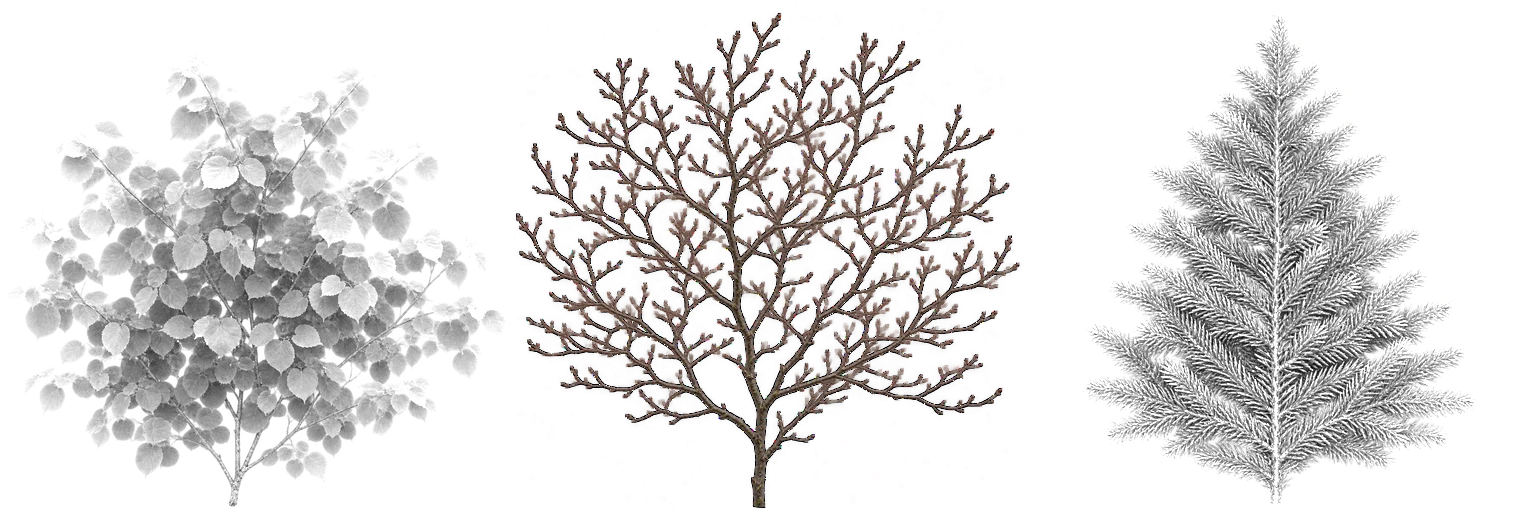
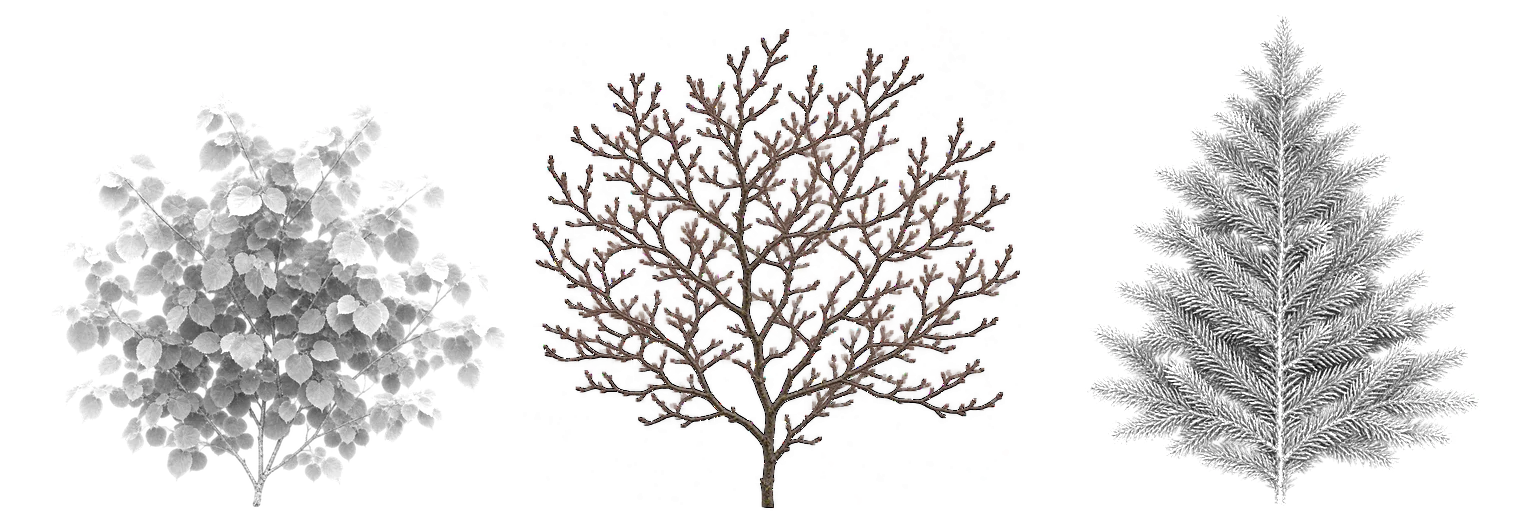
Keep twig sprays attached to their wooden branches
Fit each street-level spray around its wooden attachment instead of reshaping its corners independently. Use the branch's wind phase at the stem and let only the free end flutter. Pack the anchor with position data to retain the existing vertex-buffer and draw counts.

Centre leaf, twig and needle atlas images by their stems rather than their asymmetric silhouettes. Add geometry attachment checks across wood detail levels and a packed-atlas stem regression test.

Verified TypeScript, street-quality checks, atlas regression and WebGPU screenshots at Na Příkopě on Ultra/Lowest, in summer and overhead. Full build and performance benchmarks were not run; fallen-leaf upgrades remain deferred.

diff --git a/src/map/streetTree.ts b/src/map/streetTree.ts
@@ -30,9 +30,11 @@ export const BOUGH = -3;
 export function streetTreeGeometry(seed: number, boughs: number, sprays: number, woodDetail = 1) {
   const r = rng(seed);
   const pos: number[] = [], nor: number[] = [], uv: number[] = [], part: number[] = [], idx: number[] = [];
-  const v = (p: THREE.Vector3, n: THREE.Vector3, s: number, t: number, a: number, b: number, c: number, d: number) => {
-    pos.push(p.x, p.y, p.z); nor.push(n.x, n.y, n.z); uv.push(s, t); part.push(a, b, c, d);
-    return pos.length / 3 - 1;
+  const v = (p: THREE.Vector3, n: THREE.Vector3, s: number, t: number, a: number, b: number, c: number, d: number, root = p) => {
+    // Position and attachment share a buffer: adding the anchor must not add another
+    // vertex buffer to the instanced tree material on mobile GPUs.
+    pos.push(p.x, p.y, p.z, root.x, root.y, root.z); nor.push(n.x, n.y, n.z); uv.push(s, t); part.push(a, b, c, d);
+    return part.length / 4 - 1;
   };
   const up = new THREE.Vector3(0, 1, 0), side = new THREE.Vector3(1, 0, 0);
 
@@ -136,17 +138,20 @@ export function streetTreeGeometry(seed: number, boughs: number, sprays: number,
     const height = (centre.y - CROWN_FOOT) / (0.6 - CROWN_FOOT), girth = 0.4 + 0.5 * Math.sin(Math.PI * (0.1 + 0.8 * Math.min(1, Math.max(0, height))));
     const deep = Math.min(1, Math.max(Math.hypot(centre.x, centre.z) / girth, (centre.y - 0.1) / 0.45)), own = r(), flip = r() < 0.5;
     round.set(centre.x, (centre.y + 0.35) * 0.55, centre.z).normalize();
-    const first = pos.length / 3;
+    const first = part.length / 4;
     for (const [cx, cy] of [[-1, 0], [1, 0], [1, 1], [-1, 1]]) {
       corner.copy(end.at).addScaledVector(grown, (cy - 0.08) * size).addScaledVector(across, cx * size * 0.5);
       n.copy(round).multiplyScalar(1.4).addScaledVector(face, face.dot(round) < 0 ? -0.5 : 0.5).addScaledVector(across, cx * 0.35).addScaledVector(grown, (cy - 0.5) * 0.35).normalize();
-      v(corner, n, (cx > 0) !== flip ? 1 : 0, cy, 0, -1, own, deep);
+      v(corner, n, (cx > 0) !== flip ? 1 : 0, cy, 0, -1, own, deep, end.at);
     }
     idx.push(first, first + 1, first + 2, first, first + 2, first + 3);
   }
 
   const geom = new THREE.BufferGeometry();
-  geom.setAttribute('position', new THREE.Float32BufferAttribute(pos, 3));
+  const points = new THREE.InterleavedBuffer(new Float32Array(pos), 6);
+  (points as THREE.InterleavedBuffer & { shared?: boolean }).shared = true;
+  geom.setAttribute('position', new THREE.InterleavedBufferAttribute(points, 3, 0));
+  geom.setAttribute('branchAnchor', new THREE.InterleavedBufferAttribute(points, 3, 3));
   geom.setAttribute('normal', new THREE.Float32BufferAttribute(nor, 3));
   geom.setAttribute('uv', new THREE.Float32BufferAttribute(uv, 2));
   geom.setAttribute('part', new THREE.Float32BufferAttribute(part, 4));
@@ -219,6 +224,7 @@ export function canopyGeometry(seed: number, rings: number[], skirt: number[] = 
   });
   const geom = new THREE.BufferGeometry();
   geom.setAttribute('position', new THREE.Float32BufferAttribute(pos, 3));
+  geom.setAttribute('branchAnchor', geom.getAttribute('position'));
   geom.setAttribute('normal', new THREE.Float32BufferAttribute(nor, 3));
   geom.setAttribute('uv', new THREE.Float32BufferAttribute(uv, 2));
   geom.setAttribute('part', new THREE.Float32BufferAttribute(part, 4));
@@ -276,6 +282,7 @@ export function coniferGeometry(seed: number) {
   }
   const geom = new THREE.BufferGeometry();
   geom.setAttribute('position', new THREE.Float32BufferAttribute(pos, 3));
+  geom.setAttribute('branchAnchor', geom.getAttribute('position'));
   geom.setAttribute('normal', new THREE.Float32BufferAttribute(nor, 3));
   geom.setAttribute('uv', new THREE.Float32BufferAttribute(uv, 2));
   geom.setAttribute('part', new THREE.Float32BufferAttribute(part, 4));

diff --git a/src/webgpu/streetTrees.ts b/src/webgpu/streetTrees.ts
@@ -20,6 +20,7 @@ import { type N, follow, followVec, uWet, uSnow } from './common.ts';
 
 const uBare = follow(BARE), uSeason = followVec(SEASON), uSway: N = followVec(TREE_SWAY);
 const part: N = attribute('part', 'vec4'), yearly: N = attribute('yearly', 'float');
+const branchAnchor: N = attribute('branchAnchor', 'vec3');
 
 // The pictures arrive after the first frames: plain stand-ins keep the bindings' types.
 const blank = (rgba: number[]) => {
@@ -77,18 +78,27 @@ const fitted = (y: N): N => {
   return select(y.lessThan(TREE_FROM), float(TREE_FROM).sub(float(TREE_FROM).sub(y).mul(k)), y);
 };
 const shaped = (): N => {
-  const p: N = positionGeometry.mul(folded()), wide: N = mix(1, outlineAt(positionGeometry), smoothstep(0.15, 0.5, length(positionGeometry.xz)));
+  const p: N = positionGeometry.mul(folded());
   const tree: N = part.y.greaterThan(-1.5); // (the street tree itself: not a spray laid over a crown, a shrub's or a conifer's bough)
-  const y: N = select(part.y.greaterThanEqual(0), mix(stem.negate().sub(STEM.under), fitted(float(CROWN_FOOT)), part.y), select(tree, fitted(p.y), p.y));
+  // Fit a whole spray at its attachment, rather than fitting its four corners
+  // separately: their interpolated stem otherwise drifts off the wooden branch.
+  const spray: N = tree.and(part.x.lessThan(0.5));
+  const root: N = select(spray, branchAnchor, p);
+  const wide: N = mix(1, outlineAt(root), smoothstep(0.15, 0.5, length(root.xz)));
+  const rise: N = select(root.y.lessThan(TREE_FROM), float(TREE_FROM).sub(crownBase(stem)).div(TREE_FROM - CROWN_FOOT), 1);
+  const crownY: N = fitted(root.y).add(p.y.sub(root.y).mul(rise));
+  const y: N = select(part.y.greaterThanEqual(0), mix(stem.negate().sub(STEM.under), fitted(float(CROWN_FOOT)), part.y), select(tree, crownY, p.y));
   // The wind: boughs and sprays lean with it and swing back, more the further out from the
   // trunk they are, in gusts that cross the street from tree to tree; each spray of leaves
   // also flutters on its own. (The trunk stands still: it is at the middle.)
   const at: N = instanceMatrix().mul(vec4(0, 0, 0, 1)).xz;
   const gust: N = uSway.x.mul(0.9).sub(dot(at, uSway.zw).mul(0.11));
-  const swing: N = sin(gust).add(sin(gust.mul(2.3).add(part.z.mul(6.28))).mul(0.5)).add(0.4);
-  const reach: N = min(length(p.xz), 6).mul(tree.select(1, 0.5));
+  // The attachment sways with the wood; only the free end flutters independently.
+  const swing: N = sin(gust).add(sin(gust.mul(2.3)).mul(0.5)).add(0.4);
+  const reach: N = min(length(root.xz), 6).mul(tree.select(1, 0.5));
   const lean: N = swing.mul(reach).mul(uSway.y).mul(0.035);
-  const flutter: N = sin(uSway.x.mul(3.7).add(part.z.mul(53))).mul(uSway.y).mul(0.025).mul(float(1).sub(part.x)).mul(step(0.3, reach));
+  const free: N = uv().y.sub(select(spray, 0.08, 0));
+  const flutter: N = sin(uSway.x.mul(3.7).add(part.z.mul(53))).mul(uSway.y).mul(0.025).mul(float(1).sub(part.x)).mul(step(0.3, reach)).mul(free);
   return vec3(p.x.mul(wide).add(uSway.z.mul(lean)), y.add(flutter), p.z.mul(wide).add(uSway.w.mul(lean)));
 };
 

diff --git a/pipeline/test_street_tree_atlas.py b/pipeline/test_street_tree_atlas.py
@@ -1,0 +1,21 @@
+"""The packed atlas must place every visible stem on the geometry's centre line."""
+from pathlib import Path
+import unittest
+
+from PIL import Image
+
+
+class StreetTreeAtlasTests(unittest.TestCase):
+    def test_stems_are_centred(self):
+        path = Path(__file__).resolve().parents[1] / "public" / "street-trees.webp"
+        with Image.open(path) as atlas:
+            self.assertEqual(atlas.size, (1536, 512))
+            alpha = atlas.getchannel("A")
+            for column, name in enumerate(("leaf", "twig", "needle")):
+                with self.subTest(name=name):
+                    card = alpha.crop((column * 512, 0, (column + 1) * 512, 512))
+                    bottom = card.point(lambda a: 255 if a > 140 else 0).getbbox()[3]
+                    xs = [x for y in range(bottom - 3, bottom)
+                          for x in range(512) if card.getpixel((x, y)) > 140]
+                    self.assertLess(abs(sum(xs) / len(xs) - 256), 3,
+                                    "a stem beside the centre floats off its wooden branch")

diff --git a/assets/trees/build.py b/assets/trees/build.py
@@ -39,9 +39,13 @@ def card(name: str, grey: bool, thicken: float) -> np.ndarray:
     im = Image.open(HERE / f"{name}.webp").convert("RGBA")
     # Trimmed to what is drawn, with a margin, and squared up from the bottom (the stem
     # stays at the middle of the lower edge).
+    mask = np.asarray(im.getchannel("A")) > 24
     box = im.getchannel("A").point(lambda v: 255 if v > 24 else 0).getbbox()
-    side = max(box[2] - box[0], box[3] - box[1]) + 24
-    cx = (box[0] + box[2]) // 2
+    # The fan can be asymmetric. Centre its stem, not its bounding box, or the
+    # visible twig starts beside the card's attachment even when the quad is pinned.
+    _, stem_x = np.nonzero(mask[max(box[1], box[3] - 8):box[3]])
+    cx = round(float(stem_x.mean()))
+    side = max(2 * max(cx - box[0], box[2] - cx), box[3] - box[1]) + 24
     square = Image.new("RGBA", (side, side), (0, 0, 0, 0))
     square.alpha_composite(im, (side // 2 - cx, side - 12 - box[3]))
     a = np.asarray(square.resize((SIZE, SIZE), Image.LANCZOS)).astype(np.float32) / 255

diff --git a/docs/handbook.md b/docs/handbook.md
@@ -925,8 +925,10 @@ The metro ride uses its overhead cutaway camera.
   fork, and at every branch end flat sprays of leaves (`public/street-trees.webp`, from
   `assets/trees/`), in the tree's own colour, turning and falling through the year to
   leave bare twigs. Each spray attaches by the stem at the bottom of its atlas image,
-  with its tips pointing away from the wood. Bark grain follows each bough around
-  its bends. Thick trunks broaden at the roots, and the younger branches taper into
+  with its tips pointing away from the wood. The atlas centres each stem rather
+  than the whole fan. Sprays fit the surveyed crown and sway around their wooden
+  attachment; their free ends flutter independently. Bark grain follows each bough
+  around its bends. Thick trunks broaden at the roots, and the younger branches taper into
   smoother twigs.
   The tree pool divides each page by distance to the camera and reuses both instance
   buffers as you walk. A tree keeps its model for another six metres at the changeover
